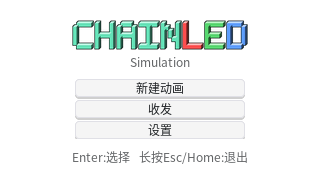
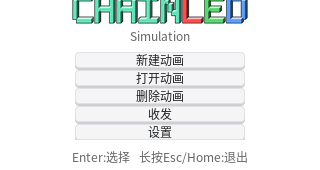
Add a Delete Animation feature (was a real functional gap)
There was no way to remove a saved animation -- only save (S in the
Editor) and load (Title's Load Animation button) existed.

Adds BaseViewModel::delete_saved_animation() (removes the save file,
leaves the in-memory animation alone) and a "Delete Animation" button
on Title, shown next to Load Animation under the same
has_saved_animation() condition. No confirmation dialog, matching the
app's existing immediate-action conventions (Backspace/S in the Editor
work the same way); the button's own label states the intent.

After deleting, both buttons hide in place via a new small TitleUi
heap struct rather than a full screen rebuild -- re-navigating to the
already-current Title page is a no-op (lv_subject only notifies on an
actual value change), so the existing reload_current_screen() path
doesn't apply here.

Adding a 5th possible button (New/Load/Delete/Send-Receive/Settings)
reopened the centering-vs-overlap tension from recent layout work: a
single fixed vertical offset either left the common 3-button case
looking oddly high or let the 5-button/CJK worst case clip the bottom
guide. Made the group's offset depend on has_saved_animation() instead
of picking one compromise value. Verified across both button counts
and all three languages via screenshots.

107/107 tests green.

Changed region(s): [[0.2188, 0.0, 0.7812, 0.8235]]

diff --git a/src/view/screens/title_screen.cpp b/src/view/screens/title_screen.cpp
@@ -18,6 +18,21 @@
 namespace screen {
 namespace {
 
+/// Owns the Load/Delete buttons so delete_animation_cb can hide both in
+/// place after removing the save file, without a full screen rebuild (the
+/// generic ScreenManager::reload_current_screen() path is driven by the
+/// language-change subject and re-navigating to the already-current Title
+/// page is a no-op -- lv_subject only notifies on an actual value change).
+struct TitleUi {
+    viewmodel::BaseViewModel* view_model = nullptr;
+    lv_obj_t* load_button = nullptr;
+    lv_obj_t* delete_button = nullptr;
+};
+
+void title_ui_delete_cb(lv_event_t* event) {
+    delete static_cast<TitleUi*>(lv_event_get_user_data(event));
+}
+
 void new_animation_cb(lv_event_t* event) {
     auto* view_model = static_cast<viewmodel::BaseViewModel*>(lv_event_get_user_data(event));
     if (view_model) {
@@ -26,10 +41,29 @@ void new_animation_cb(lv_event_t* event) {
 }
 
 void load_animation_cb(lv_event_t* event) {
-    auto* view_model = static_cast<viewmodel::BaseViewModel*>(lv_event_get_user_data(event));
-    if (view_model) {
-        view_model->load_animation();
+    auto* ui = static_cast<TitleUi*>(lv_event_get_user_data(event));
+    if (ui && ui->view_model) {
+        ui->view_model->load_animation();
     }
+}
+
+void delete_animation_cb(lv_event_t* event) {
+    auto* ui = static_cast<TitleUi*>(lv_event_get_user_data(event));
+    if (!ui || !ui->view_model || !ui->view_model->delete_saved_animation()) {
+        return;
+    }
+    // Hide both buttons in place -- has_saved_animation() is now false, and
+    // an already-focused/focusable hidden object would otherwise trap
+    // keyboard navigation.
+    if (ui->load_button) {
+        lv_group_remove_obj(ui->load_button);
+        lv_obj_add_flag(ui->load_button, LV_OBJ_FLAG_HIDDEN);
+    }
+    if (ui->delete_button) {
+        lv_group_remove_obj(ui->delete_button);
+        lv_obj_add_flag(ui->delete_button, LV_OBJ_FLAG_HIDDEN);
+    }
+    lv_group_focus_next(BaseScreen::shared_group());
 }
 
 void send_receive_cb(lv_event_t* event) {
@@ -48,7 +82,7 @@ void settings_cb(lv_event_t* event) {
 
 lv_obj_t* make_menu_button(lv_obj_t* parent, const char* text) {
     auto* button = lv_button_create(parent);
-    lv_obj_set_size(button, 170, 18);
+    lv_obj_set_size(button, 170, 16);
     auto* label = lv_label_create(button);
     lv_label_set_text(label, text);
     lv_obj_set_style_text_font(label, i18n::font_for_size(12), 0);
@@ -66,6 +100,10 @@ TitleScreen::TitleScreen(viewmodel::BaseViewModel& view_model, app::AssetManager
 void TitleScreen::build_content(lv_obj_t* content) {
     lv_obj_clear_flag(content, LV_OBJ_FLAG_SCROLLABLE);
 
+    auto* ui = new TitleUi();
+    ui->view_model = &view_model();
+    lv_obj_add_event_cb(content, title_ui_delete_cb, LV_EVENT_DELETE, ui);
+
     // Logo + subtitle + button stack are nested inside one flex-column
     // "group" so the whole block centers as a unit (both axes) regardless
     // of how many buttons are showing -- a fixed screen-relative offset
@@ -79,7 +117,13 @@ void TitleScreen::build_content(lv_obj_t* content) {
     lv_obj_set_flex_align(group, LV_FLEX_ALIGN_CENTER, LV_FLEX_ALIGN_CENTER, LV_FLEX_ALIGN_CENTER);
     lv_obj_set_style_pad_row(group, 4, 0);
     lv_obj_clear_flag(group, LV_OBJ_FLAG_SCROLLABLE);
-    lv_obj_align(group, LV_ALIGN_CENTER, 0, -6);
+    // Nudged up further when Load/Delete are both showing (5 buttons: New/
+    // Load/Delete/Send-Receive/Settings) -- true screen-center would clip
+    // into the bottom guide at that worst-case height (see NOTES.md this
+    // was found via screenshot). Kept at a gentler nudge otherwise so the
+    // common 3-button case still reads as centered rather than shifted up.
+    const int group_offset = view_model().has_saved_animation() ? -18 : -6;
+    lv_obj_align(group, LV_ALIGN_CENTER, 0, group_offset);
 
     // "CHAINLED" is the product's brand wordmark, kept in English in every
     // UI language (same treatment as Battleship's "BATTLESHIP" title logo --
@@ -118,8 +162,8 @@ void TitleScreen::build_content(lv_obj_t* content) {
     lv_obj_set_size(menu, 170, LV_SIZE_CONTENT);
     lv_obj_set_flex_flow(menu, LV_FLEX_FLOW_COLUMN);
     lv_obj_set_flex_align(menu, LV_FLEX_ALIGN_CENTER, LV_FLEX_ALIGN_CENTER, LV_FLEX_ALIGN_CENTER);
-    lv_obj_set_style_pad_row(menu, 3, 0);
-    lv_obj_set_style_pad_top(menu, 4, 0);
+    lv_obj_set_style_pad_row(menu, 2, 0);
+    lv_obj_set_style_pad_top(menu, 3, 0);
     lv_obj_clear_flag(menu, LV_OBJ_FLAG_SCROLLABLE);
 
     auto* new_button = make_menu_button(menu, i18n::tr(i18n::StrId::TitleNewAnimation));
@@ -133,9 +177,17 @@ void TitleScreen::build_content(lv_obj_t* content) {
     if (view_model().has_saved_animation()) {
         auto* load_button = make_menu_button(menu, i18n::tr(i18n::StrId::TitleLoadAnimation));
         reactive::bind_theme(load_button, view_model().dark_mode_subject(), reactive::ThemeRole::Button);
-        lv_obj_add_event_cb(load_button, load_animation_cb, LV_EVENT_CLICKED, &view_model());
+        lv_obj_add_event_cb(load_button, load_animation_cb, LV_EVENT_CLICKED, ui);
         BaseScreen::enable_arrow_focus_navigation(load_button);
         lv_group_add_obj(BaseScreen::shared_group(), load_button);
+        ui->load_button = load_button;
+
+        auto* delete_button = make_menu_button(menu, i18n::tr(i18n::StrId::TitleDeleteAnimation));
+        reactive::bind_theme(delete_button, view_model().dark_mode_subject(), reactive::ThemeRole::Button);
+        lv_obj_add_event_cb(delete_button, delete_animation_cb, LV_EVENT_CLICKED, ui);
+        BaseScreen::enable_arrow_focus_navigation(delete_button);
+        lv_group_add_obj(BaseScreen::shared_group(), delete_button);
+        ui->delete_button = delete_button;
     }
 
     auto* send_receive_button = make_menu_button(menu, i18n::tr(i18n::StrId::TitleSendReceive));

diff --git a/src/i18n/strings_ja.cpp b/src/i18n/strings_ja.cpp
@@ -11,6 +11,7 @@ const Table kJapaneseTable = [] {
     Table t{};
     t[static_cast<std::size_t>(StrId::TitleNewAnimation)] = "新規アニメーション";
     t[static_cast<std::size_t>(StrId::TitleLoadAnimation)] = "アニメーションを開く";
+    t[static_cast<std::size_t>(StrId::TitleDeleteAnimation)] = "アニメーションを削除";
     t[static_cast<std::size_t>(StrId::TitleSendReceive)] = "送受信";
     t[static_cast<std::size_t>(StrId::TitleSendAnimation)] = "アニメーションを送信 (LAN)";
     t[static_cast<std::size_t>(StrId::TitleReceiveAnimation)] = "アニメーションを受信 (LAN)";

diff --git a/src/i18n/strings_en.cpp b/src/i18n/strings_en.cpp
@@ -11,6 +11,7 @@ const Table kEnglishTable = [] {
     Table t{};
     t[static_cast<std::size_t>(StrId::TitleNewAnimation)] = "New Animation";
     t[static_cast<std::size_t>(StrId::TitleLoadAnimation)] = "Load Animation";
+    t[static_cast<std::size_t>(StrId::TitleDeleteAnimation)] = "Delete Animation";
     t[static_cast<std::size_t>(StrId::TitleSendReceive)] = "Send / Receive";
     t[static_cast<std::size_t>(StrId::TitleSendAnimation)] = "Send Animation (LAN)";
     t[static_cast<std::size_t>(StrId::TitleReceiveAnimation)] = "Receive Animation (LAN)";

diff --git a/src/i18n/strings_zh.cpp b/src/i18n/strings_zh.cpp
@@ -11,6 +11,7 @@ const Table kChineseTable = [] {
     Table t{};
     t[static_cast<std::size_t>(StrId::TitleNewAnimation)] = "新建动画";
     t[static_cast<std::size_t>(StrId::TitleLoadAnimation)] = "打开动画";
+    t[static_cast<std::size_t>(StrId::TitleDeleteAnimation)] = "删除动画";
     t[static_cast<std::size_t>(StrId::TitleSendReceive)] = "收发";
     t[static_cast<std::size_t>(StrId::TitleSendAnimation)] = "发送动画 (局域网)";
     t[static_cast<std::size_t>(StrId::TitleReceiveAnimation)] = "接收动画 (局域网)";

diff --git a/src/viewmodel/base_viewmodel.cpp b/src/viewmodel/base_viewmodel.cpp
@@ -121,6 +121,11 @@ bool BaseViewModel::save_animation() const {
     return chainled::core::save_animation_to_file(animation_, app::default_animation_save_path());
 }
 
+bool BaseViewModel::delete_saved_animation() const {
+    std::error_code ec;
+    return std::filesystem::remove(app::default_animation_save_path(), ec);
+}
+
 void BaseViewModel::move_cursor(int dx, int dy) {
     cursor_x_ = clampi(cursor_x_ + dx, 0, chainled::core::kFrameSize - 1);
     cursor_y_ = clampi(cursor_y_ + dy, 0, chainled::core::kFrameSize - 1);

diff --git a/src/viewmodel/base_viewmodel.h b/src/viewmodel/base_viewmodel.h
@@ -58,6 +58,10 @@ public:
     void new_animation();
     bool load_animation();
     bool save_animation() const;
+    /// Removes the save file, if any. Returns false if there was nothing to
+    /// delete (has_saved_animation() was already false) or removal failed.
+    /// Does not touch the animation currently being edited in memory.
+    bool delete_saved_animation() const;
 
     // ---- Editing ops (Editor screen) ----
     void move_cursor(int dx, int dy);

diff --git a/src/i18n/strings.h b/src/i18n/strings.h
@@ -34,6 +34,7 @@ enum class StrId {
     // no StrId needed.)
     TitleNewAnimation,
     TitleLoadAnimation,
+    TitleDeleteAnimation,      ///< shown next to Load, only when has_saved_animation()
     TitleSendReceive,          ///< combined Title-screen entry -> AppPage::SendReceive chooser
     TitleSendAnimation,
     TitleReceiveAnimation,
